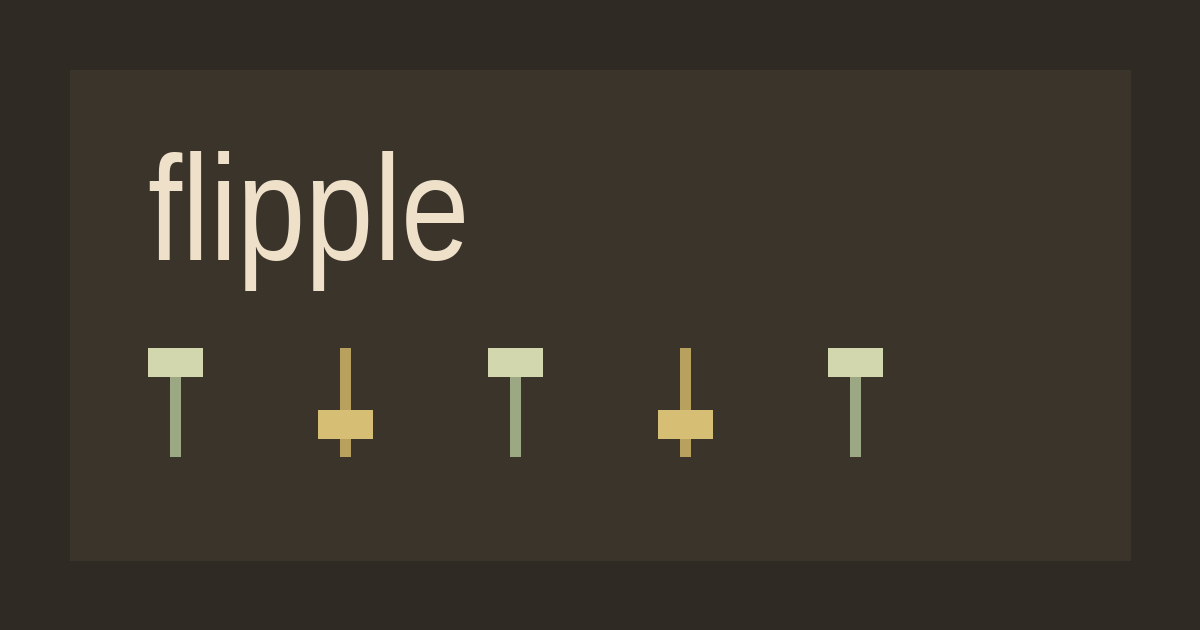
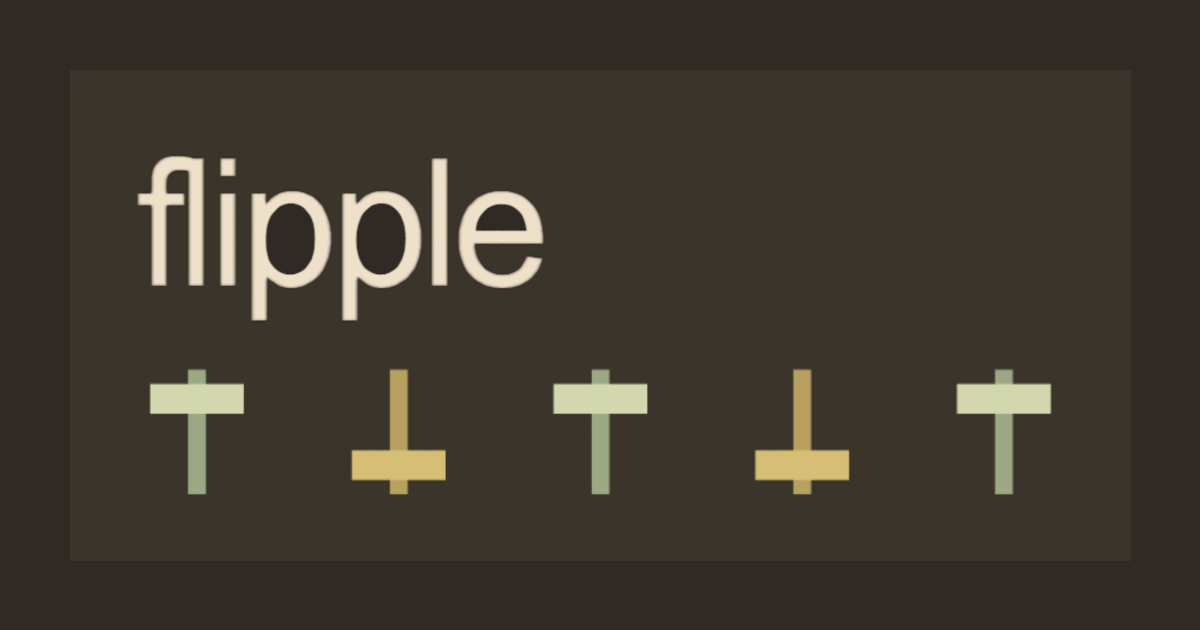
Update preview image for v0.2.2

diff --git a/CHANGELOG.md b/CHANGELOG.md
@@ -1,5 +1,9 @@
 # Changelog
 
+## 0.2.2
+
+- Changed the preview icon to something that actually looks nice and matches the game font
+
 ## 0.2.1
 
 - Changed share rows to show correctness instead of selected colors, including cubed mode.

diff --git a/README.md b/README.md
@@ -6,7 +6,7 @@ A daily switch puzzle by **crazywaffleguy**.
 
 Website: <https://flipple.live>
 
-Current version: `flipple v0.2.1`
+Current version: `flipple v0.2.2`
 
 GitHub: <https://github.com/crazywaffleguy>
 